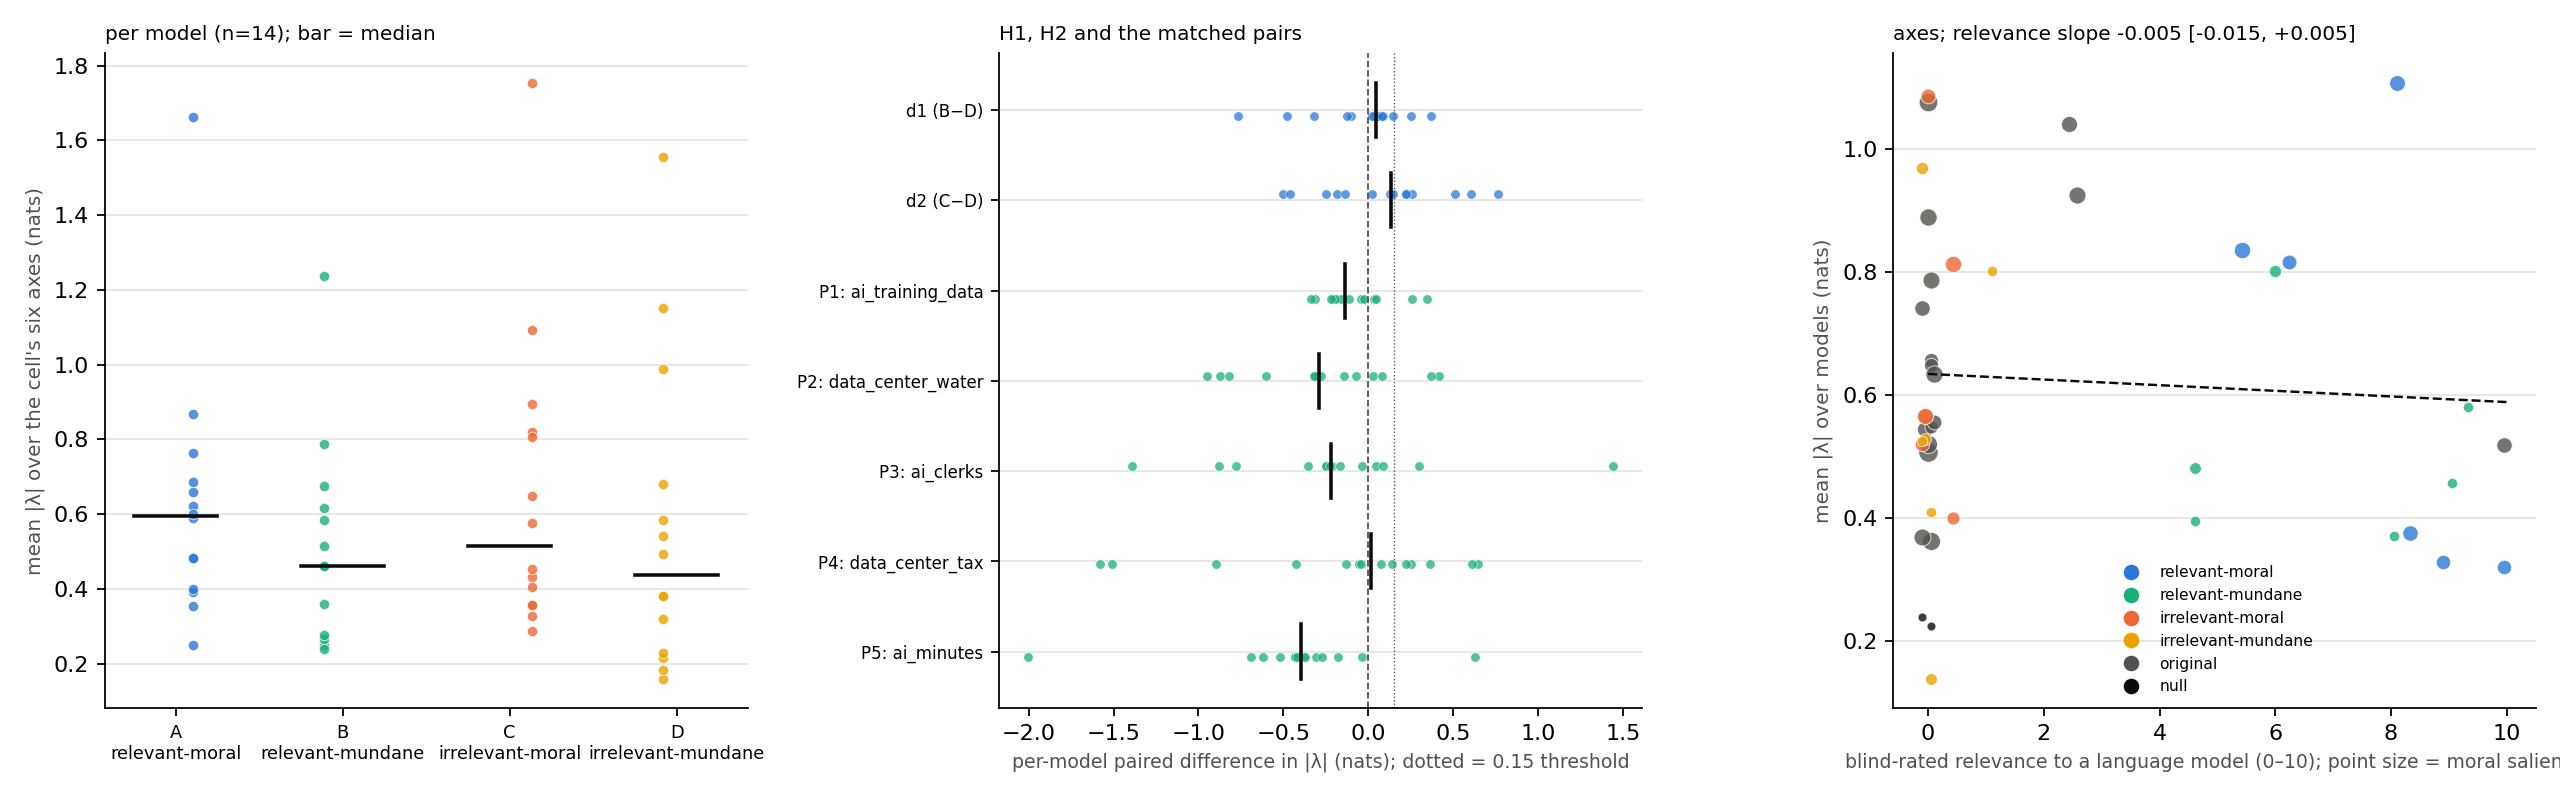
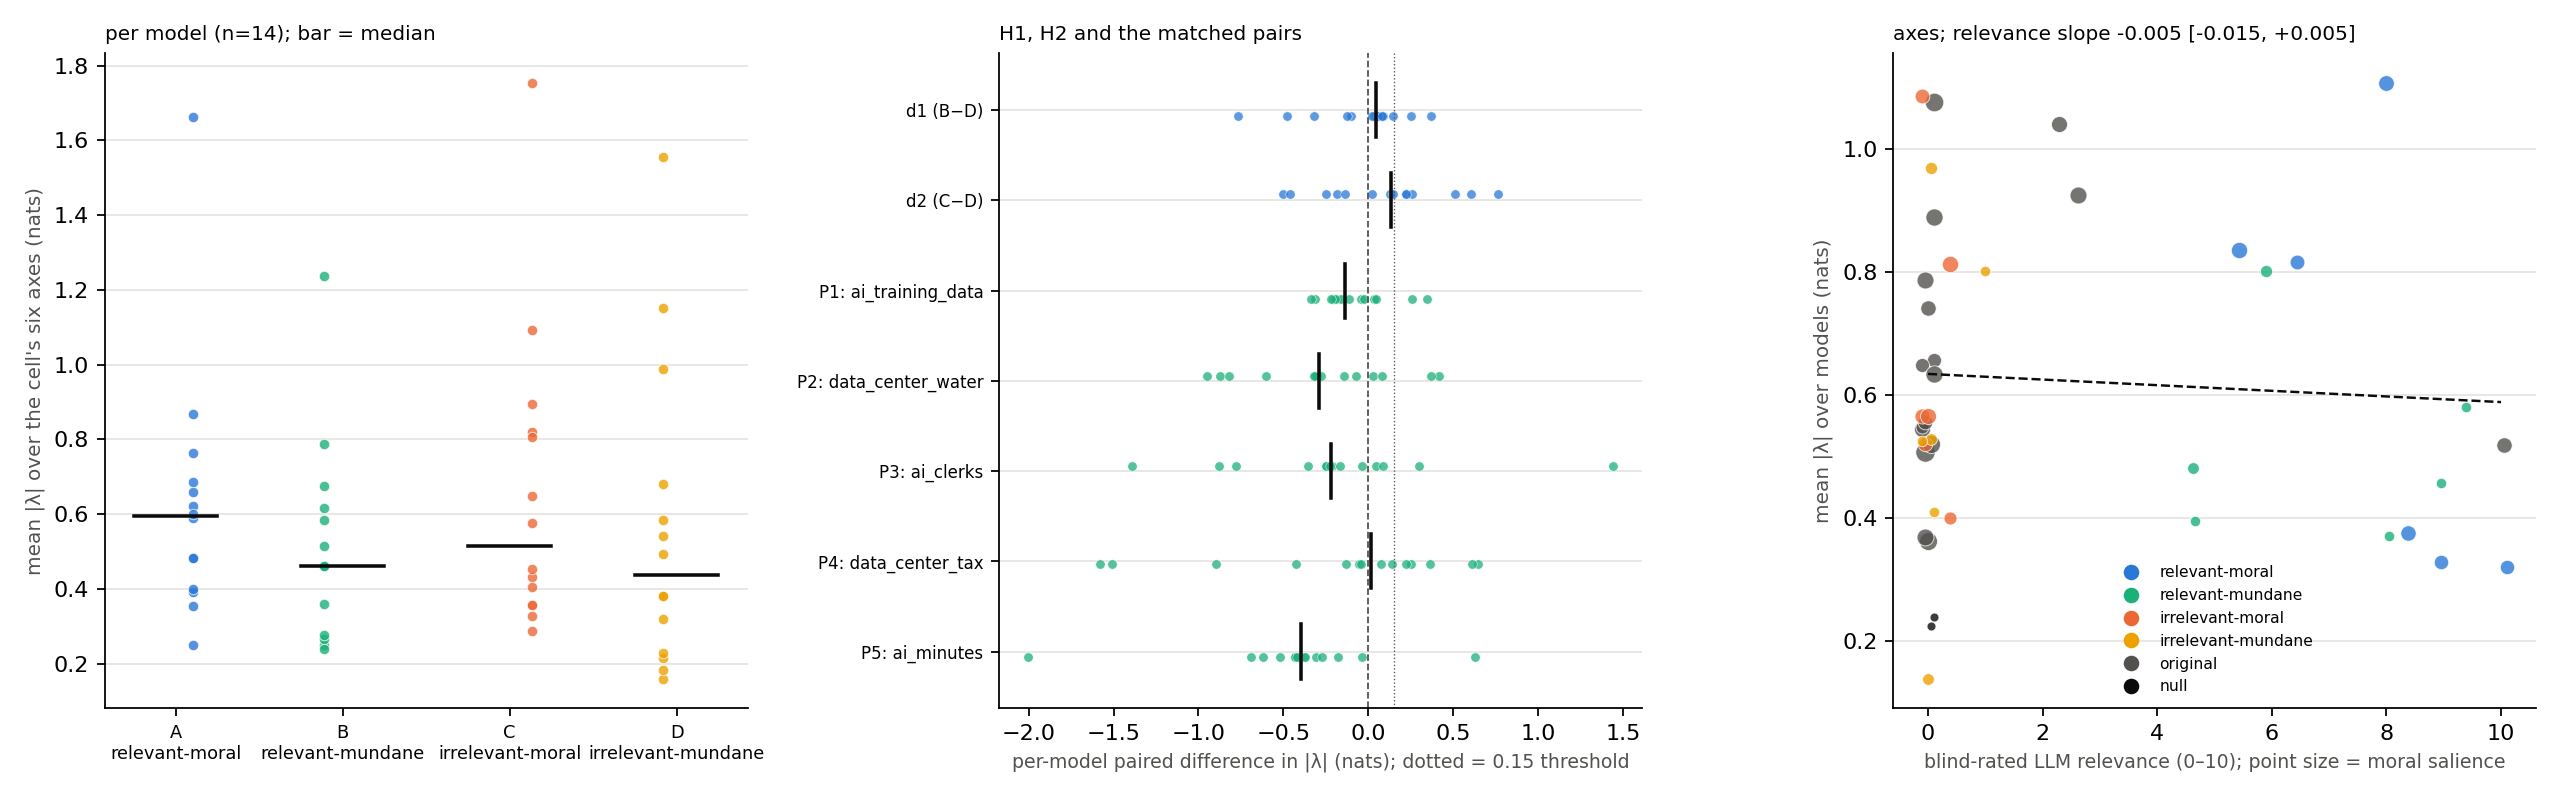
relevance figure: shorter axis label

diff --git a/scripts/pct/relevance_analyze.py b/scripts/pct/relevance_analyze.py
@@ -279,7 +279,7 @@ def main():
     if reg:
         mm = sum(ax_stats[a]["moral"] for a in rated) / len(rated)
         ax.plot([0, 10], [reg["intercept"] + reg["slope_relevance"] * x + reg["slope_moral"] * mm for x in (0, 10)], color=INK, lw=1.1, ls="--")
-    ax.set_xlabel("blind-rated relevance to a language model (0–10); point size = moral salience", fontsize=8.5, color=MUTED)
+    ax.set_xlabel("blind-rated LLM relevance (0–10); point size = moral salience", fontsize=8.5, color=MUTED)
     ax.set_ylabel("mean |λ| over models (nats)", fontsize=9, color=MUTED)
     ax.set_title("axes" + (f"; relevance slope {reg['slope_relevance']:+.3f} [{reg['ci_relevance'][0]:+.3f}, {reg['ci_relevance'][1]:+.3f}]" if reg else ""), fontsize=9, loc="left")
     handles = [plt.Line2D([], [], marker="o", ls="", color=c, label=k) for k, c in CELL_COL.items()]
